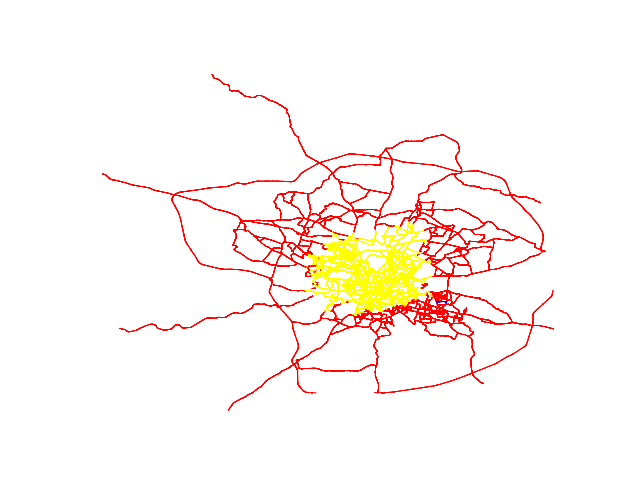
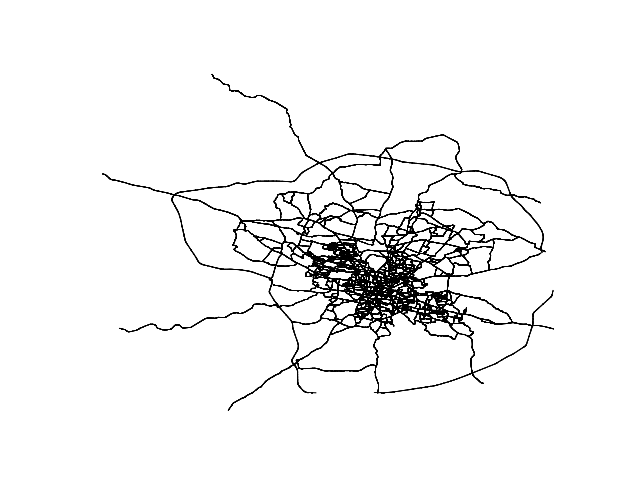
new partitioning scheme - grid based

diff --git a/grid_partition/real_map/partition.py b/grid_partition/real_map/partition.py
@@ -1,0 +1,175 @@
+import numpy as np
+
+
+class GridPartition:
+    
+    def __init__(self, _n, _coord, _demands):
+        self.n = _n
+        self.coord = _coord
+        self.demands = _demands
+        
+        
+        self.limit = -1 # no limit set initially
+
+        self.color = ['#000000'] * _n   # all the nodes are black initially
+        self.components = []    # will contain the partitions as a list of lists
+        self.arr = []   # will be used while partitioning
+
+
+    def totalDemand(self):
+        return np.sum(self.demands)
+
+    def setLimit(self, _a):
+        self.limit = _a
+
+    
+    def __sub_demand(self, aux):
+
+        tmp = 0
+        for i in aux:
+            tmp += self.demands[i]
+        
+        return tmp
+
+    def __length(self, aux):
+        
+        # find the minimum longitude
+        a = self.coord[aux[0]][1]
+        for i in aux:
+            a = min(a, self.coord[i][1])
+        
+        # find the maximum longitude
+        b = a
+        for i in aux:
+            b = max(b, self.coord[i][1])
+
+        return b-a
+
+
+    def __breadth(self, aux):
+
+        # find the minimum latitude
+        a = self.coord[aux[0]][0]
+        for i in aux:
+            a = min(a, self.coord[i][0])
+
+        # find the maximum latitude
+        b = a
+        for i in aux:
+            b = max(b, self.coord[i][0])
+
+
+        return b-a
+
+
+    def __get_run_sum(self, aux):
+
+        res = []
+
+        s = self.demands[aux[0]]
+        res.append(s)
+
+        for i in range(1, len(aux)):
+            s += self.demands[aux[i]]
+            res.append(s)
+
+        return res
+
+
+
+    def __aux_partition(self, st, end):
+        
+        # focus on nodes in range arr[st:end]
+
+        if st > end:
+            print("st > end passed")
+            return
+
+        # first get the demand of this range
+        d = self.__sub_demand(self.arr[st:end])
+
+        if d <= self.limit: # this partition is fine
+            self.components.append(self.arr[st:end])
+            return
+        
+
+        # otherwise, we need to refine this partition
+
+        # find the 'length'
+        t1 = self.__length(self.arr[st:end])
+        # find the 'breadth'
+        t2 = self.__breadth(self.arr[st:end])
+
+        if t1 >= t2:
+            # do partition parallel to longitudes
+            ## sort the points longitude-wise
+            tmp = self.arr[st:end]
+            tmp.sort(key=lambda x: self.coord[x][1])
+            self.arr[st:end] = tmp
+            
+        else:
+            # partition parallel to latitudes
+            ## sort the points latitude-wise
+            tmp = self.arr[st:end]
+            tmp.sort(key=lambda x: self.coord[x][0])
+            self.arr[st:end] = tmp
+
+        run_dem_sum = self.__get_run_sum(self.arr[st:end])
+        
+        ind = -1
+        low = st
+        high = end-1
+
+        while low <= high:
+
+            mid = low + int((high-low)/2)
+
+            t = run_dem_sum[mid-st]
+            
+            if t == self.limit:
+                ind = mid
+                break
+            
+            elif t < self.limit:
+                ind = mid
+                low = mid+1
+            
+            else:
+                high = mid-1
+
+    
+
+        if ind == -1:
+            print(st, end)
+            raise ("Couldn't find a suitable point")
+
+
+        self.__aux_partition(st, ind)
+        self.__aux_partition(ind+1, end)
+        return
+    
+
+
+    def partition(self):
+        self.components = []    # clear previous partitioning results, if any
+        self.arr = []
+
+        for i in range(self.n):
+            self.arr.append(i)
+
+        # call an auxiliary function
+        self.__aux_partition(0, self.n)
+
+
+    def colorPartitions(self):
+        palatte = ['red', 'blue', 'yellow', 'green', 'orange', 'cyan', 'pink', 'magenta', 'brown', 'black']
+        
+        a = 0
+        
+        for arr in self.components:
+            for i in arr:
+                self.color[i] = palatte[a]
+            a += 1
+
+        return
+    

diff --git a/grid_partition/real_map/main.py b/grid_partition/real_map/main.py
@@ -1,19 +1,32 @@
-from utils import *
-
+from input import *
+from partition import *
 
 graph, n = get_graph('edges.csv')
-
 coord = get_coordinates('coordinates.csv')
-
 demands = get_demands('demands.csv')
 
-# Number of partitions
-P = 6
+print('Number of nodes =', n)
 
-color = ['#000000'] * n # all the nodes are black initially
+# # Number of partitions
+# P = 6
 
-d = disonnected_components(graph)
-print(len(d))
+# color = ['#000000'] * n # all the nodes are black initially
+
+# d = disonnected_components(graph)
+# print('Number of disconnected components =', len(d))
+
+
+pr = GridPartition(n, coord, demands)
+
+td = pr.totalDemand()
+
+print('Limit =', td/6)
+pr.setLimit(td/6)
+
+pr.partition()
+
+print(len(pr.components))
+
 
 # print('Partitioning...')
 # partition(graph, P, coord, demands, color)
@@ -24,8 +37,8 @@ print(len(d))
 ## gird baesd - draw parallel lines - divide into rectangular regions!!
 
 
-color_components(d, color)
-refine_components(d, graph, demands, color, P)
+# color_components(d, color)
+# refine_components(d, graph, demands, color, P)
 
 print('Plotting...')
-plot_graph(graph, coord, color, 'partitioned.png')
+plot_graph(graph, coord, pr.color, 'partitioned.png')

diff --git a/grid_partition/real_map/input.py b/grid_partition/real_map/input.py
@@ -36,8 +36,13 @@ def get_coordinates(filename):
 
     # coordinates.csv file stores the coordinates of the nodes
     coordinates = pd.read_csv(filename, sep=' ')
+    
+    n = len(coordinates)    # number of rows in the file
 
-    coord = {}
+    coord = []
+    for _ in range(n):
+        coord.append((0.0, 0.0))
+
     for row in coordinates.itertuples():
         _, node, lat, long = row
 
@@ -66,7 +71,8 @@ def get_demands(filename):
 
 
 def plot_graph(graph, coord, color, name):
-    n  =len(graph)
+    
+    n = len(graph)
 
     fig = plt.figure()
     # plt.style.use('dark_background')
